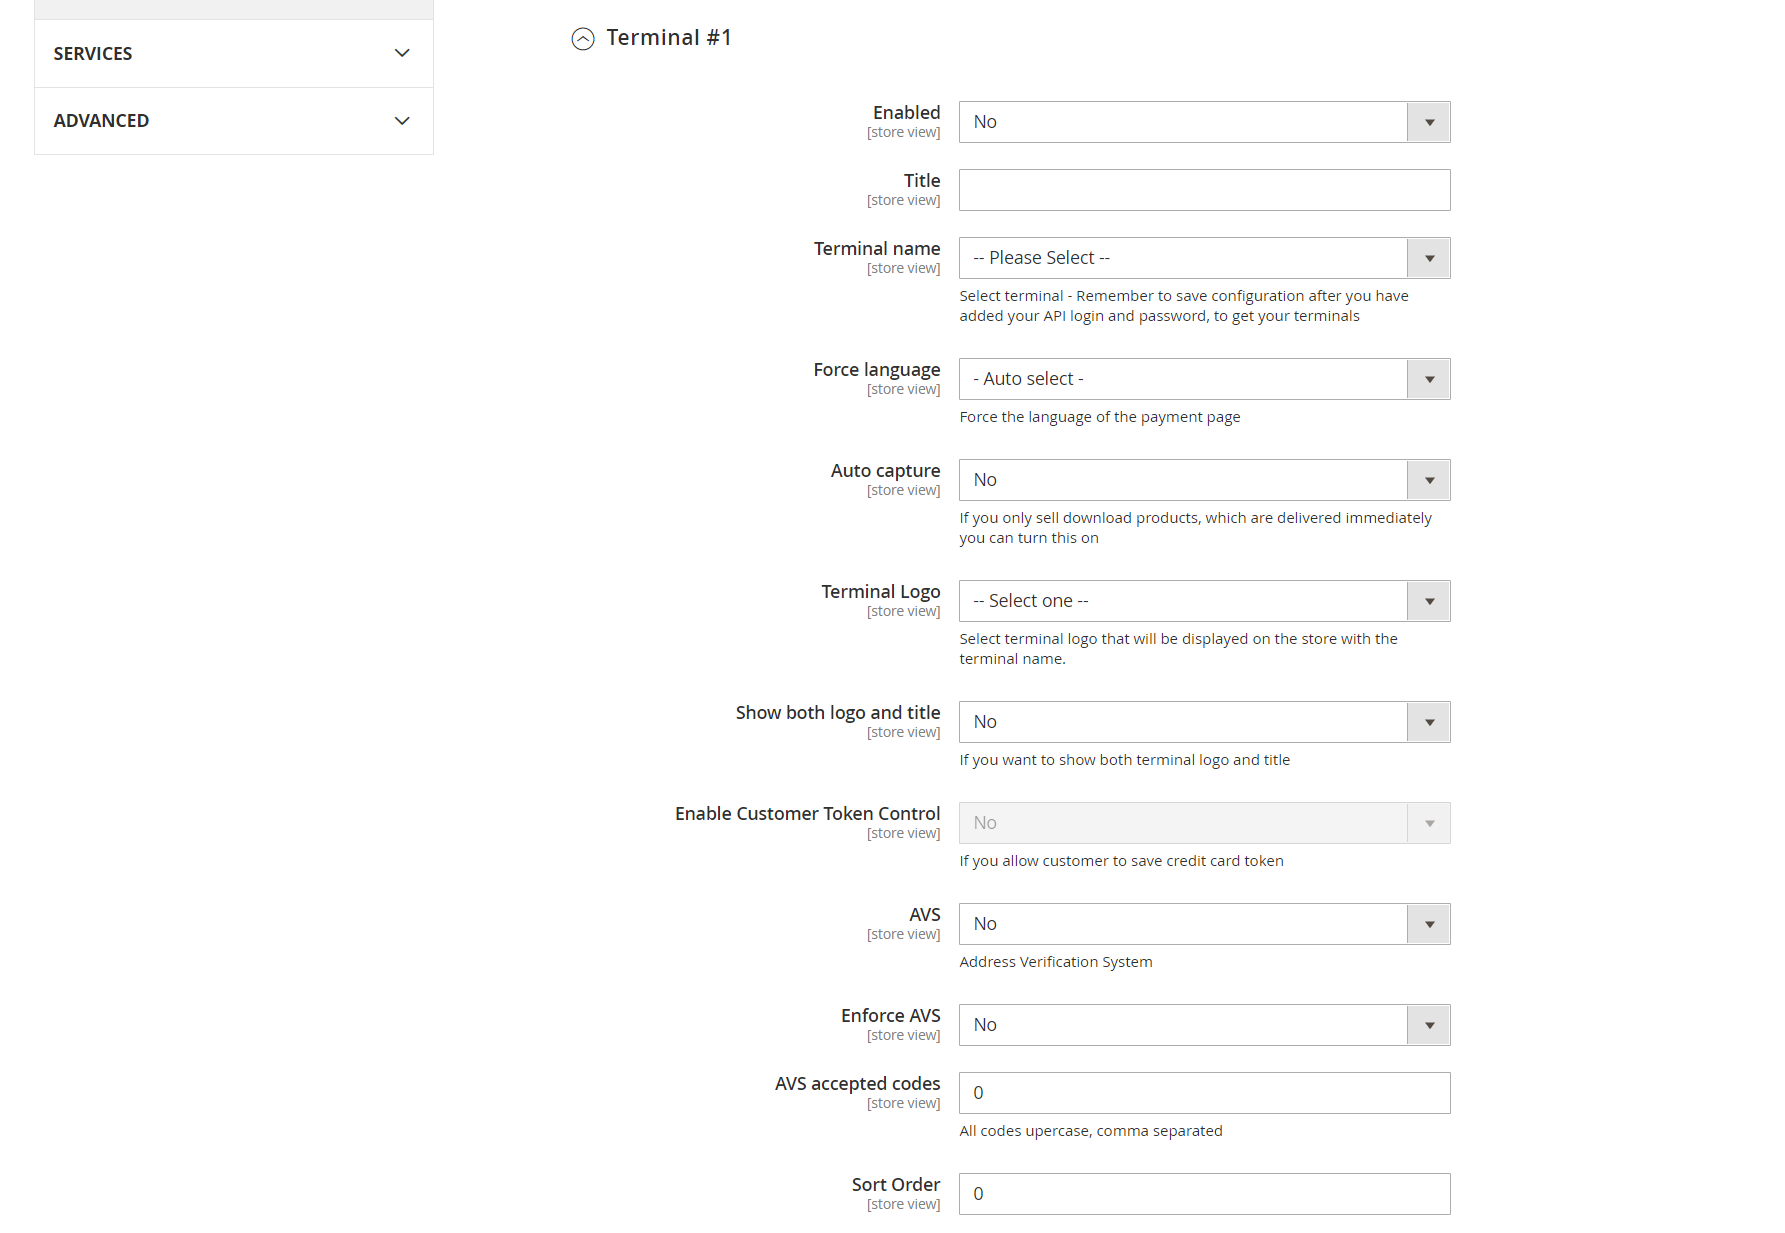
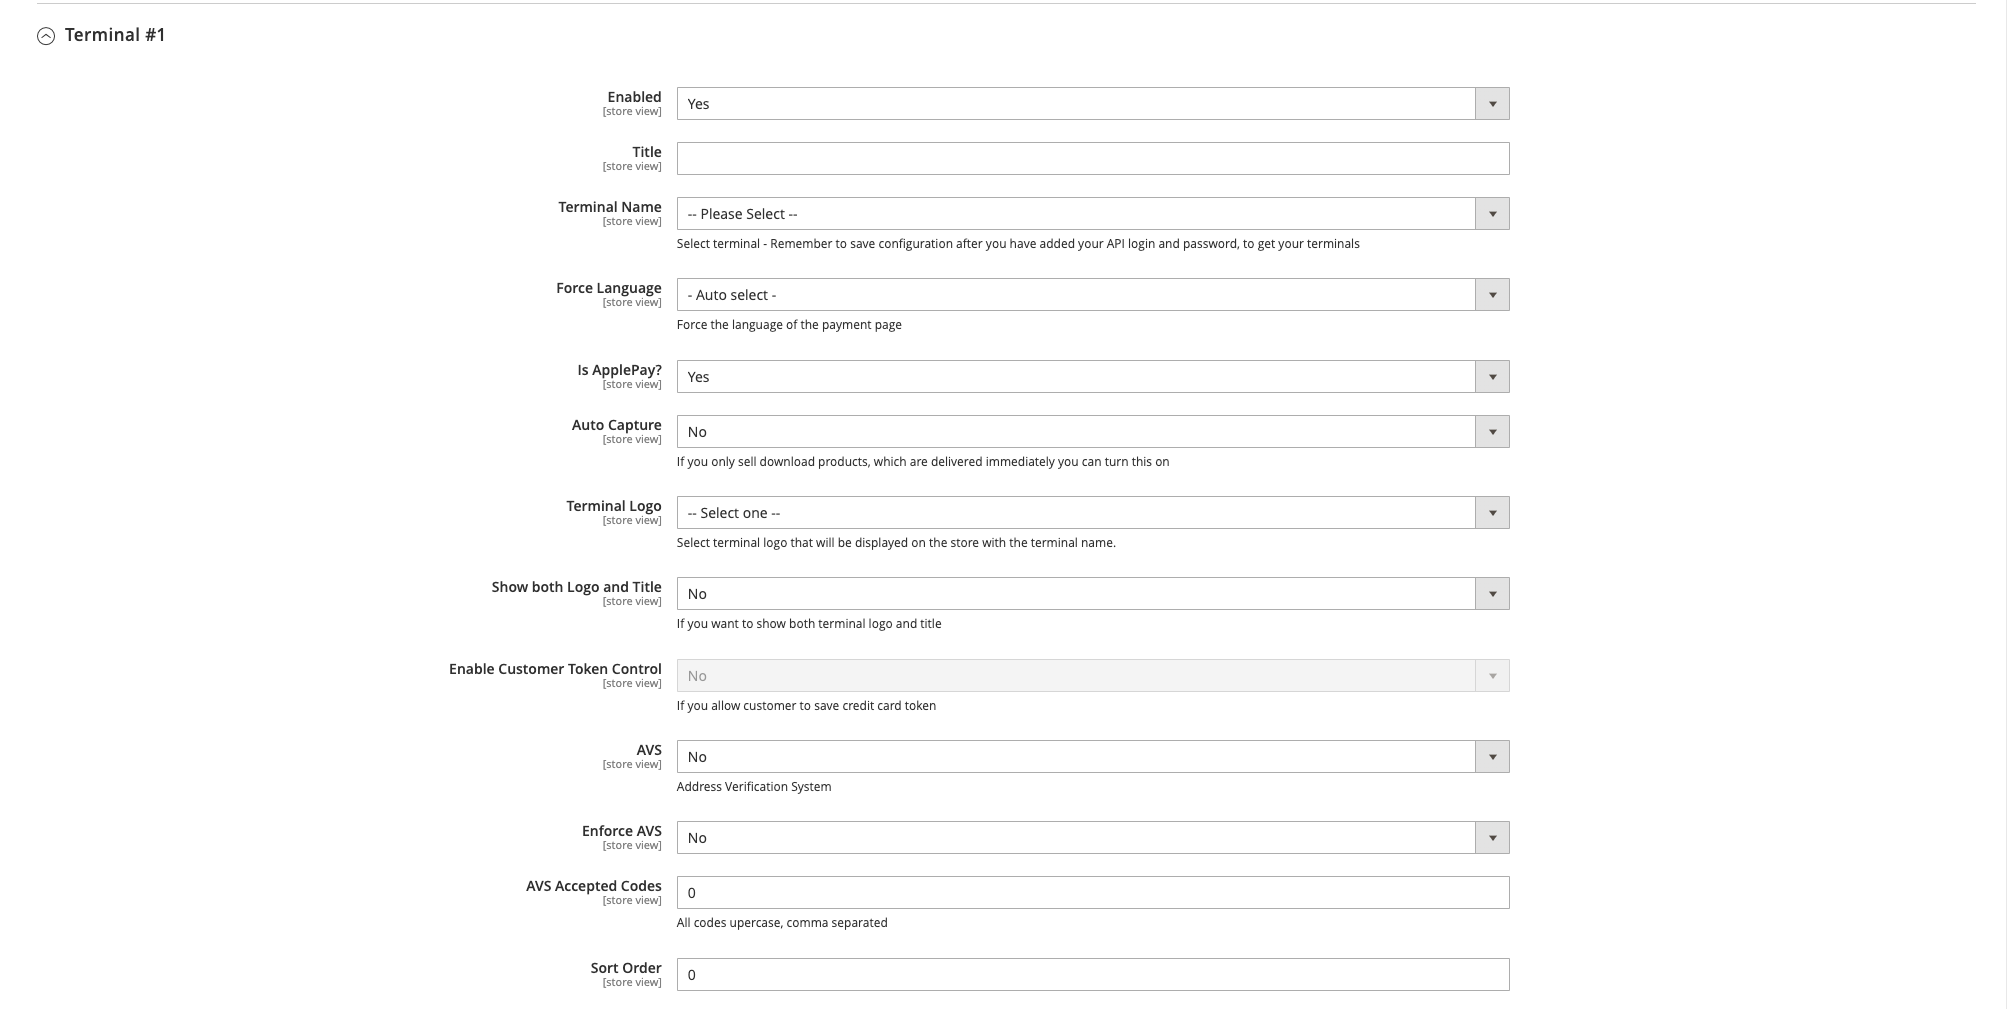
Update wiki doc

diff --git a/wiki.md b/wiki.md
@@ -161,8 +161,9 @@ To synchronize the terminals with the gateway, click on the **Synchronize Termin
 5.  Optional fields: 'Force language', 'Fraud detection', 'Auto
     capture', 'Terminal Logo', 'Enable Customer Token Control', 'AVS','
     AVS accepted codes'.
+6.  If Apple Pay terminal is selected from the Terminal dropdown, make sure to enable isapplepay option.
 
-6.  Save changes by clicking 'Save Config'
+7.  Save changes by clicking 'Save Config'
 
 ![gateway_terminal_configuration](docs/gateway_terminal_configuration.png)
 
